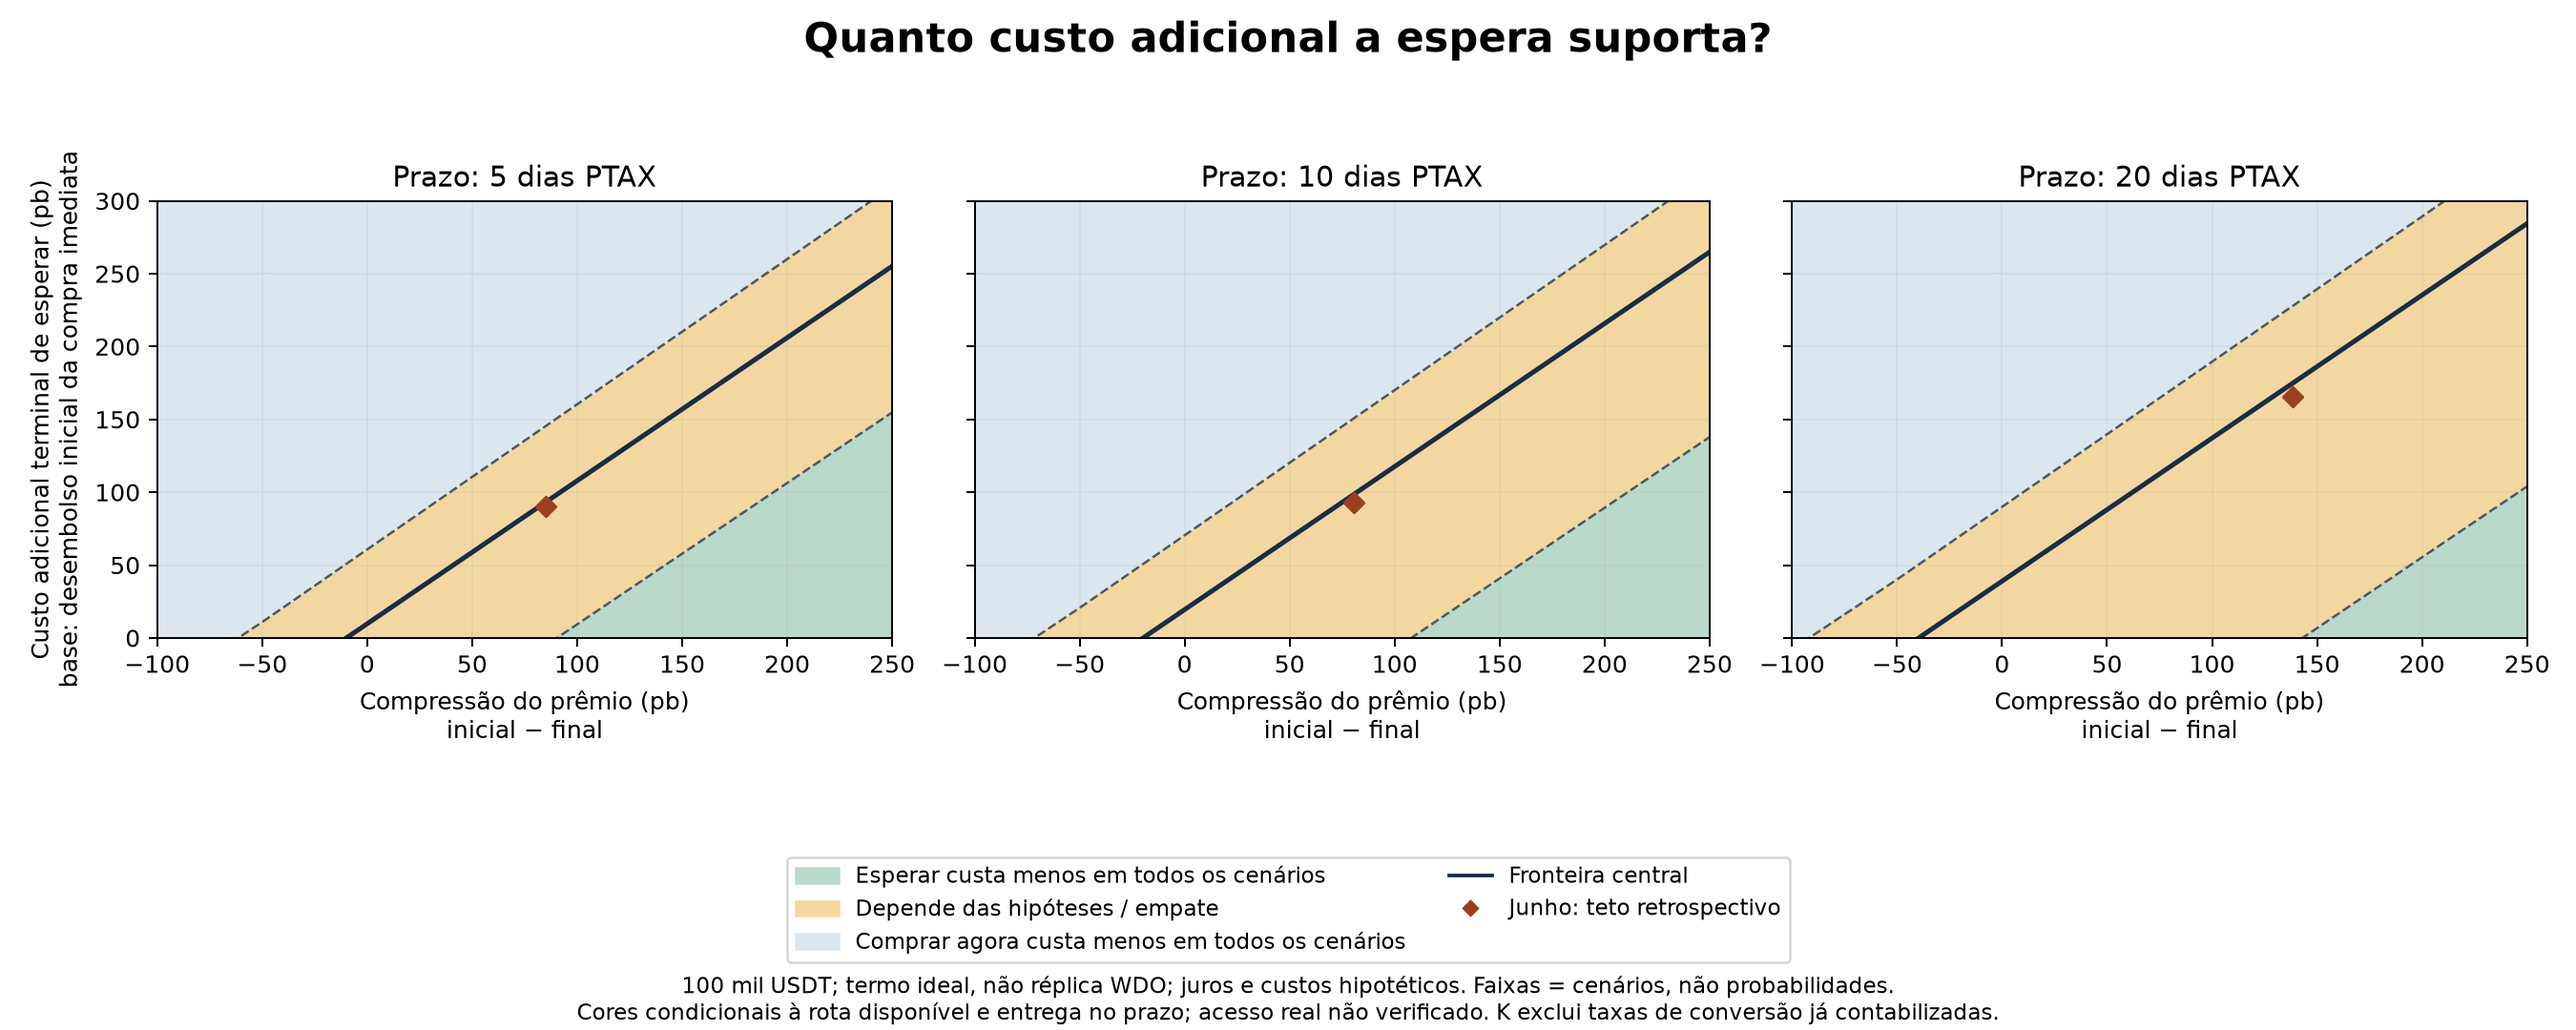
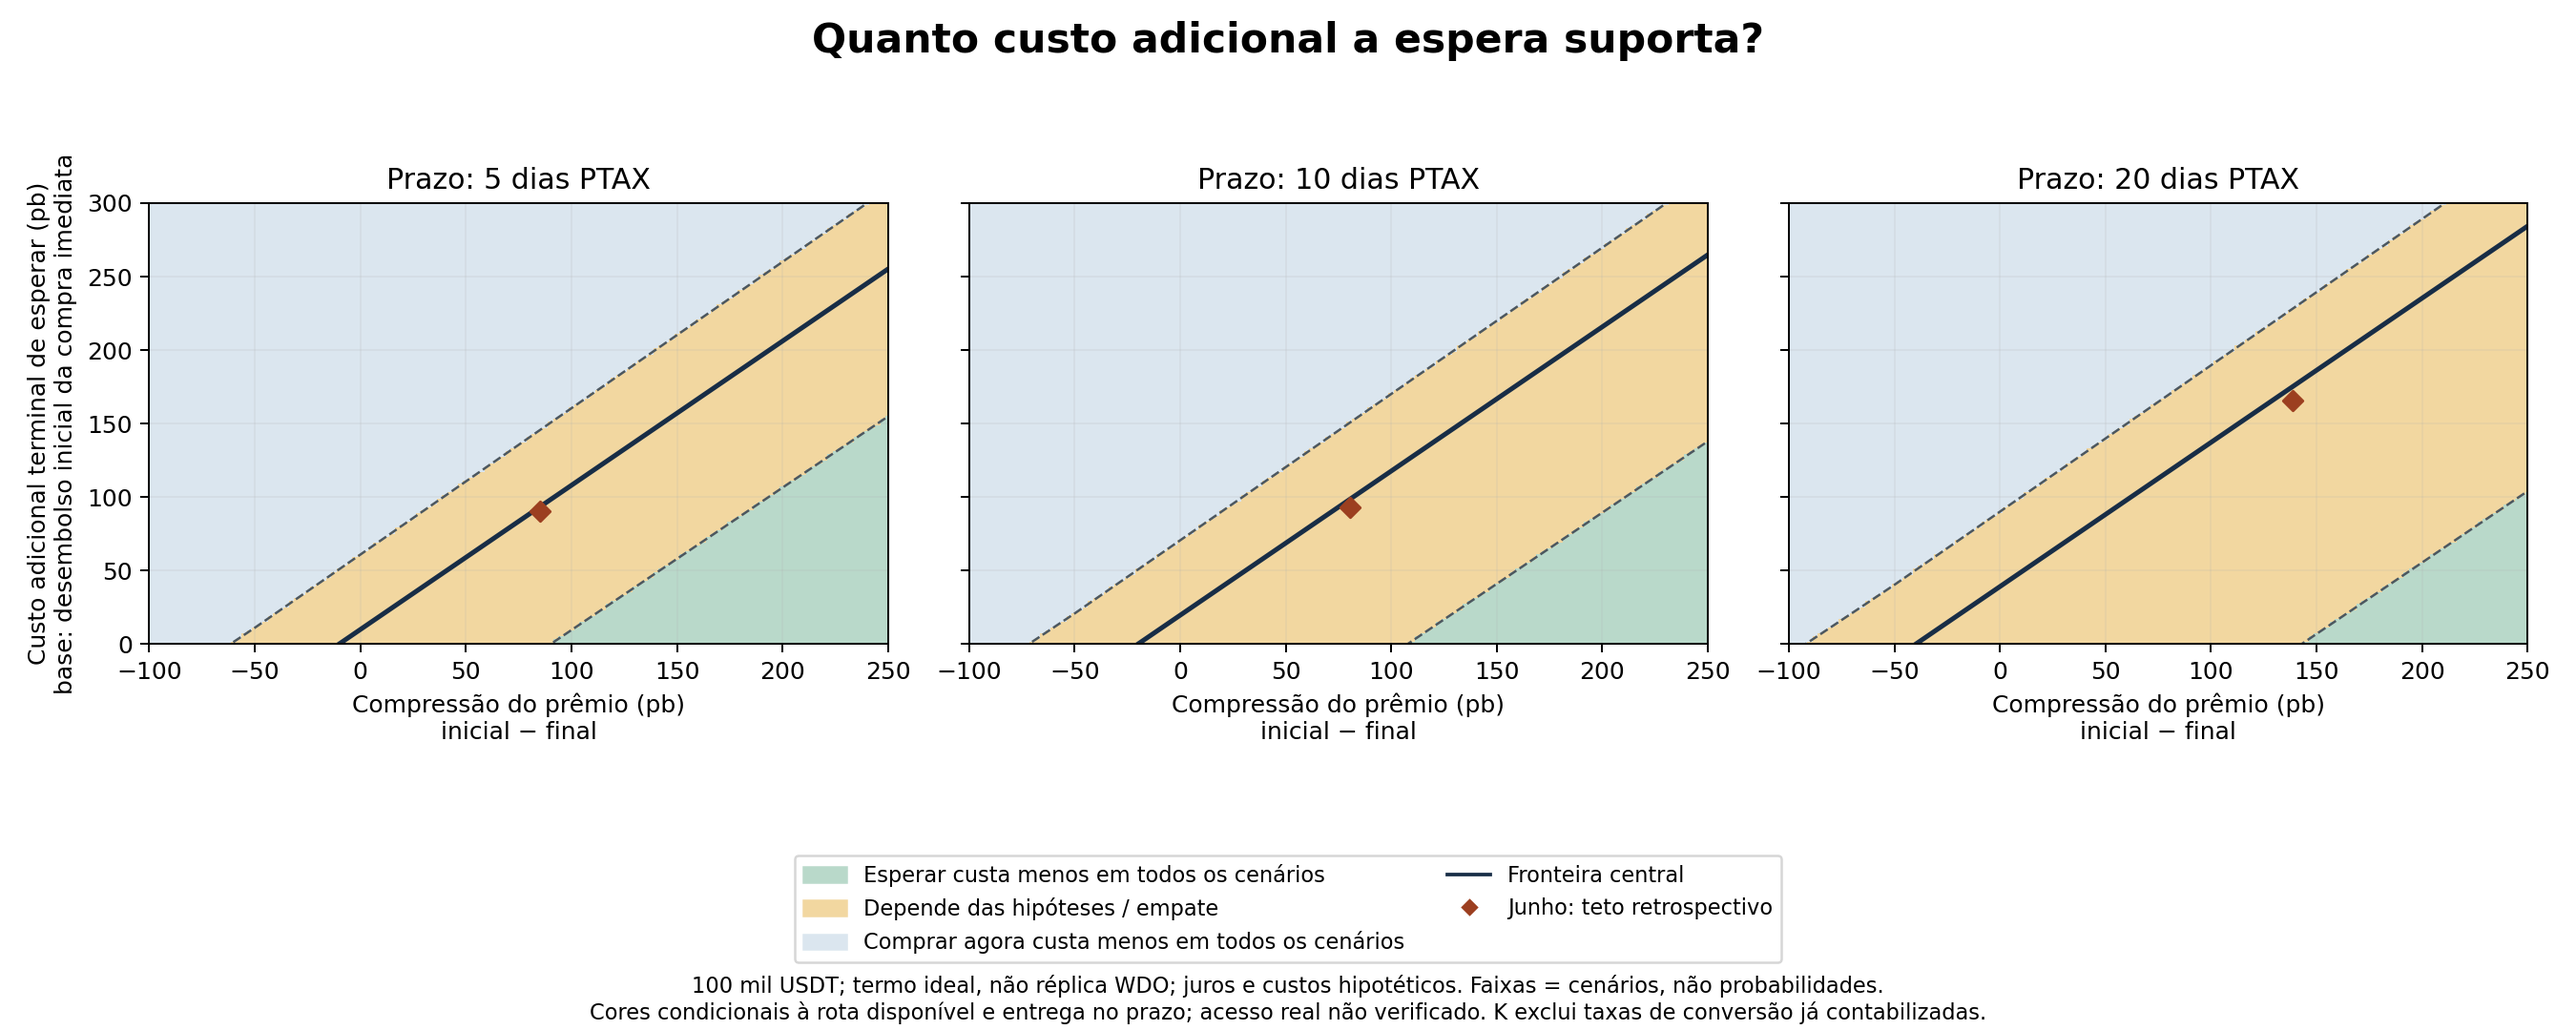
review(p3-39): independent human reproduction and sign-off on F-048 buyer cost frontier

diff --git a/tasks/P3-39-buyer-cost-frontier.md b/tasks/P3-39-buyer-cost-frontier.md
@@ -2,7 +2,7 @@
 id: P3-39
 title: Measure the buyer's cost budget for waiting
 phase: P3
-status: review
+status: done
 owner: Economist
 working: -
 due: 2026-11-07
@@ -34,13 +34,14 @@ Map x is premium compression in bps (initial minus terminal), y is additional te
 - `findings/F-048-buyer-cost-frontier.md`, `docs/buyer-cost-frontier.md`
 
 ## Handoff
-- **State:** script, ten checks, CSVs, figure, F-048 and note complete; frontier visually inspected. F-039 wording corrected, estimates unchanged. Felipe authorized pushing for teammate review on 7 Nov.
-- **Next step:** teammate reproduces P3-38, then Felipe decides whether to replace the treasury illustration. Actual access/quotes remain unresolved.
+- **State:** S1–S3 completed and independently reproduced by Jonathan (CS 3) (`status: done`). Script `scripts/p3_38_buyer_frontier.py` passes all 10 boundary checks; CSVs (`results/tables/P3-38_*.csv`) and figure (`results/figures/P3-38_buyer_frontier.png`) verified; `checked_by` signed off on F-048.
+- **Next step:** None for P3-39 verification; Felipe decides whether to replace the treasury illustration in P5-08.
 - **Open questions:** real executable quotes, institutional access, taxes and settlement calendars unavailable; scenarios only.
 - **How to resume:** run the new script with `--test-only`, then without arguments.
 
 ## Log
 - 2026-11-07 — Codex for Felipe: claimed new P3-38 after pulling 1ccbddd; preserves untracked scratch/ and Renzo's P3-37 work. Prior one-time push authorization not assumed to cover this new extension.
+- 2026-11-07 — Jonathan (CS 3): Independent third-party human review and reproduction. Re-ran `scripts/p3_38_buyer_frontier.py --test-only` (10/10 checks pass) and full execution. Verified scenario frontier calculations, access/settlement gates, and stress envelope ranges in `results/tables/P3-38_*.csv` and `findings/F-048-buyer-cost-frontier.md`. Signed off `checked_by` on F-048. Status -> done.
 
 ## Result
 F-048: central retrospective cost ceilings positive, but each observed June compression has a stress range spanning zero. The ranking depends on institutional assumptions. This is a scenario boundary and delivery gate, not validated trading advice.

diff --git a/findings/F-048-buyer-cost-frontier.md b/findings/F-048-buyer-cost-frontier.md
@@ -4,7 +4,7 @@ title: Waiting's June cost budget is positive centrally but changes sign across 
 status: exploratory
 task: P3-39
 date: 2026-11-07
-checked_by: -
+checked_by: Jonathan (CS 3)
 ---
 
 ## Claim
